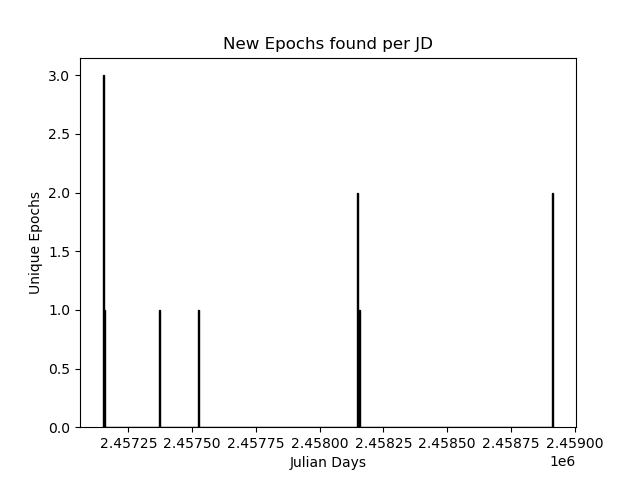
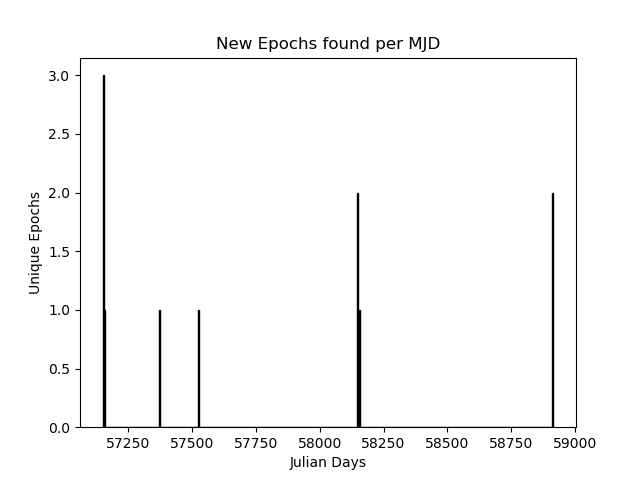
Performed time unit change for comparison

Changed region(s): [[0.1562, 0.9062, 0.9375, 0.9688], [0.3438, 0.0625, 0.6875, 0.125]]

diff --git a/epoch_JD_calendar.py b/epoch_JD_calendar.py
@@ -4,6 +4,7 @@ import sys
 from mpc_wise_functions import *
 import matplotlib.pyplot as plt
 import numpy as np
+from astropy.time import Time
 
 
 def JD_plot(mpc_code, bands):
@@ -18,7 +19,8 @@ def JD_plot(mpc_code, bands):
 
     JD_xaxis = []
     for epoch in new_epochs:
-        JD_xaxis.append(new_epochs[epoch][1]) #appending each JD for each epoch in the new epochs dictionary
+        jd_time = Time(new_epochs[epoch][1], format="jd")
+        JD_xaxis.append(jd_time.mjd) #appending each JD for each epoch in the new epochs dictionary
    
     #Setting up y-axis for histogram
 
@@ -27,11 +29,8 @@ def JD_plot(mpc_code, bands):
 
     plt.hist(JD_xaxis, bins = 400, edgecolor="k", align='left', color='black')
 
-    plt.title("New Epochs found per JD")
+    plt.title("New Epochs found per MJD")
     plt.xlabel("Julian Days")
     plt.ylabel("Unique Epochs")
     plt.savefig(f"jd_plots/{mpc_code}_{bands}bands.png")
-    #plt.show()
     plt.close()
-
-#JD_plot(new_epochs, 'placeholder', mpc_code)
